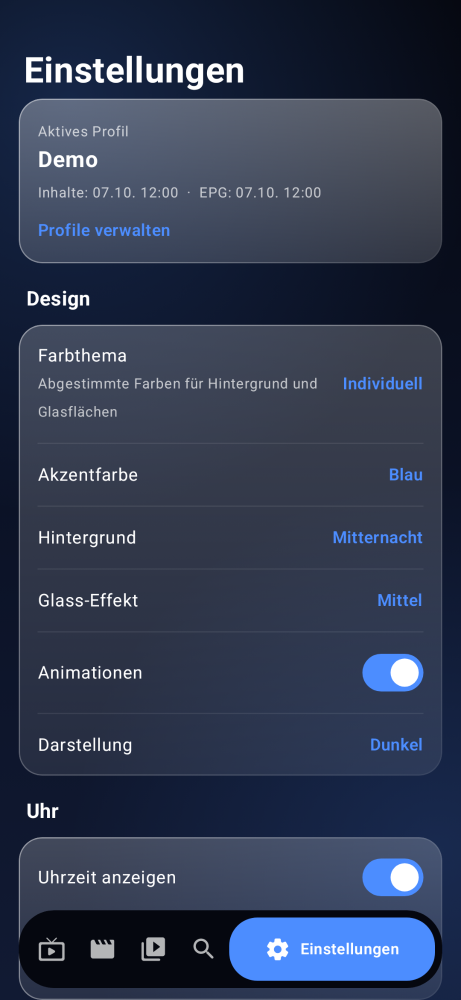
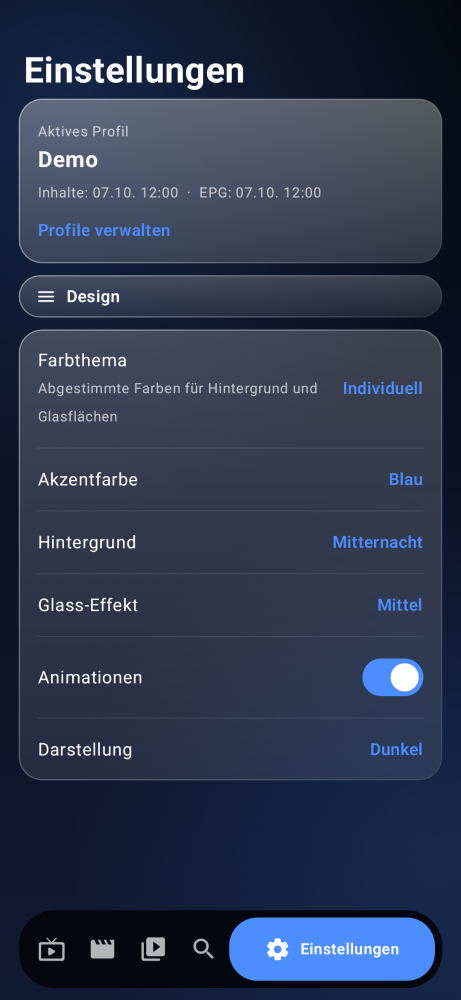
Version 1.0.37: Einstellungen auf dem Handy über eine Schublade
Design, Uhr, Player, Live-TV und Allgemein wählt man wie die Kategorien. Auf der Seite bleibt nur der gewählte Bereich.

diff --git a/mobile/src/main/java/de/dgstudios/iptvstream/SettingsScreens.kt b/mobile/src/main/java/de/dgstudios/iptvstream/SettingsScreens.kt
@@ -1,6 +1,9 @@
 package de.dgstudios.iptvstream
 
 import androidx.compose.foundation.background
+import androidx.compose.foundation.border
+import androidx.compose.foundation.clickable
+import androidx.compose.foundation.interaction.MutableInteractionSource
 import androidx.compose.foundation.layout.Arrangement
 import androidx.compose.foundation.layout.Box
 import androidx.compose.foundation.layout.Column
@@ -8,14 +11,18 @@ import androidx.compose.foundation.layout.PaddingValues
 import androidx.compose.foundation.layout.Row
 import androidx.compose.foundation.layout.Spacer
 import androidx.compose.foundation.layout.WindowInsets
+import androidx.compose.foundation.layout.WindowInsetsSides
+import androidx.compose.foundation.layout.fillMaxHeight
 import androidx.compose.foundation.layout.fillMaxSize
 import androidx.compose.foundation.layout.fillMaxWidth
 import androidx.compose.foundation.layout.height
 import androidx.compose.foundation.layout.imePadding
+import androidx.compose.foundation.layout.only
 import androidx.compose.foundation.layout.padding
 import androidx.compose.foundation.layout.safeDrawing
 import androidx.compose.foundation.layout.size
 import androidx.compose.foundation.layout.width
+import androidx.compose.foundation.layout.widthIn
 import androidx.compose.foundation.layout.windowInsetsPadding
 import androidx.compose.foundation.lazy.LazyColumn
 import androidx.compose.foundation.layout.asPaddingValues
@@ -30,6 +37,7 @@ import androidx.compose.material.icons.rounded.Add
 import androidx.compose.material.icons.rounded.Check
 import androidx.compose.material.icons.rounded.Delete
 import androidx.compose.material.icons.rounded.Edit
+import androidx.compose.material.icons.rounded.Menu
 import androidx.compose.material.icons.rounded.Tv
 import androidx.compose.material3.AlertDialog
 import androidx.compose.material3.DropdownMenu
@@ -44,9 +52,11 @@ import androidx.compose.runtime.Composable
 import androidx.compose.runtime.getValue
 import androidx.compose.runtime.mutableStateOf
 import androidx.compose.runtime.remember
+import androidx.compose.runtime.saveable.rememberSaveable
 import androidx.compose.runtime.setValue
 import androidx.compose.ui.Alignment
 import androidx.compose.ui.Modifier
+import androidx.compose.ui.draw.clip
 import androidx.compose.ui.platform.LocalContext
 import androidx.compose.ui.graphics.Color
 import androidx.compose.ui.text.font.FontWeight
@@ -55,6 +65,9 @@ import androidx.compose.ui.text.style.TextOverflow
 import androidx.compose.ui.unit.Dp
 import androidx.compose.ui.unit.dp
 import androidx.compose.ui.unit.sp
+import androidx.compose.ui.window.Dialog
+import androidx.compose.ui.window.DialogProperties
+import de.dgstudios.iptvstream.core.settings.SettingsSection
 import androidx.lifecycle.compose.collectAsStateWithLifecycle
 import de.dgstudios.iptvstream.core.data.db.ProfileEntity
 import de.dgstudios.iptvstream.core.data.db.ProfileType
@@ -83,6 +96,9 @@ fun SettingsScreen(mainVm: MainViewModel, settings: AppSettings, bottomPad: Dp, 
     val sysNav = androidx.compose.foundation.layout.WindowInsets.navigationBars
         .asPaddingValues().calculateBottomPadding()
     val listBottom = maxOf(bottomPad, 66.dp + 36.dp + sysNav) + 24.dp
+    var sectionId by rememberSaveable { mutableStateOf(SettingsSchema.sections.first().id) }
+    var drawerOpen by remember { mutableStateOf(false) }
+    val section = SettingsSchema.sections.firstOrNull { it.id == sectionId } ?: SettingsSchema.sections.first()
 
     LazyColumn(
         Modifier.fillMaxSize(),
@@ -110,41 +126,166 @@ fun SettingsScreen(mainVm: MainViewModel, settings: AppSettings, bottomPad: Dp, 
                 }
             }
         }
-        for (section in SettingsSchema.sections) {
-            item(key = "h_" + section.id) {
-                Text(
-                    section.title,
-                    color = s.onSurface,
-                    fontSize = 17.sp,
-                    fontWeight = FontWeight.Bold,
-                    modifier = Modifier.padding(start = 6.dp, top = 8.dp),
-                )
-            }
-            item(key = "s_" + section.id) {
-                Column(Modifier.fillMaxWidth().glass(RoundedCornerShape(20.dp))) {
-                    section.items.forEachIndexed { i, def ->
-                        if (i > 0) {
-                            Box(Modifier.fillMaxWidth().height(1.dp).padding(horizontal = 16.dp).background(Color.White.copy(alpha = 0.08f)))
-                        }
-                        SettingRow(
-                            def = def,
-                            settings = settings,
-                            epgRunning = epg.running,
-                            epgFraction = epg.fraction,
-                            epgMessage = epg.message,
-                            onChange = { k, v -> mainVm.set(k, v) },
-                            onAction = { id ->
-                                when (id) {
-                                    "profiles" -> onProfiles()
-                                    "reload" -> mainVm.reloadContent()
-                                    "epg_refresh" -> mainVm.refreshEpg()
-                                    "check_update" -> context.container.updates.checkNow()
-                                }
-                            },
-                        )
+        item(key = "section_bar") {
+            SettingsSectionBar(section.title) { drawerOpen = true }
+        }
+        item(key = "s_" + section.id) {
+            SettingsCard(
+                section = section,
+                settings = settings,
+                epgRunning = epg.running,
+                epgFraction = epg.fraction,
+                epgMessage = epg.message,
+                onChange = { k, v -> mainVm.set(k, v) },
+                onAction = { id ->
+                    when (id) {
+                        "profiles" -> onProfiles()
+                        "reload" -> mainVm.reloadContent()
+                        "epg_refresh" -> mainVm.refreshEpg()
+                        "check_update" -> context.container.updates.checkNow()
+                    }
+                },
+            )
+        }
+    }
+    if (drawerOpen) {
+        SettingsSectionDrawer(
+            selected = section.id,
+            onSelect = {
+                sectionId = it
+                drawerOpen = false
+            },
+            onDismiss = { drawerOpen = false },
+        )
+    }
+}
+
+/** Knopf wie bei den Kategorien: tippen öffnet die Schublade mit den Bereichen. */
+@Composable
+internal fun SettingsSectionBar(title: String, onOpen: () -> Unit) {
+    val s = LocalAppStyle.current
+    Row(
+        Modifier
+            .fillMaxWidth()
+            .height(36.dp)
+            .glass(RoundedCornerShape(50))
+            .pressable(onOpen)
+            .padding(horizontal = 14.dp),
+        verticalAlignment = Alignment.CenterVertically,
+    ) {
+        Icon(Icons.Rounded.Menu, contentDescription = "Bereiche öffnen", tint = s.onSurface, modifier = Modifier.size(18.dp))
+        Spacer(Modifier.width(8.dp))
+        Text(
+            title,
+            color = s.onSurface,
+            fontSize = 14.sp,
+            fontWeight = FontWeight.SemiBold,
+            maxLines = 1,
+            overflow = TextOverflow.Ellipsis,
+        )
+    }
+}
+
+/** Seitliche Schublade mit Design, Uhr, Player, Live-TV und Allgemein. */
+@Composable
+private fun SettingsSectionDrawer(
+    selected: String,
+    onSelect: (String) -> Unit,
+    onDismiss: () -> Unit,
+) {
+    val s = LocalAppStyle.current
+    val sections = SettingsSchema.sections
+    Dialog(
+        onDismissRequest = onDismiss,
+        properties = DialogProperties(usePlatformDefaultWidth = false, dismissOnClickOutside = true),
+    ) {
+        Box(Modifier.fillMaxSize()) {
+            Box(
+                Modifier
+                    .fillMaxSize()
+                    .background(Color.Black.copy(alpha = 0.45f))
+                    .clickable(
+                        interactionSource = remember { MutableInteractionSource() },
+                        indication = null,
+                        onClick = onDismiss,
+                    ),
+            )
+            Column(
+                Modifier
+                    .fillMaxHeight()
+                    .fillMaxWidth(0.88f)
+                    .widthIn(max = 420.dp)
+                    .background(s.backgroundColors[0])
+                    .windowInsetsPadding(
+                        WindowInsets.safeDrawing.only(WindowInsetsSides.Horizontal + WindowInsetsSides.Top),
+                    )
+                    .padding(horizontal = 14.dp, vertical = 12.dp),
+            ) {
+                Text("Bereiche", color = s.onSurface, fontSize = 22.sp, fontWeight = FontWeight.Bold)
+                Spacer(Modifier.height(12.dp))
+                LazyColumn(
+                    Modifier.weight(1f).fillMaxWidth(),
+                    verticalArrangement = Arrangement.spacedBy(8.dp),
+                    contentPadding = PaddingValues(bottom = 48.dp),
+                ) {
+                    items(sections, key = { it.id }) { sec ->
+                        SettingsDrawerRow(sec.title, sec.id == selected) { onSelect(sec.id) }
                     }
                 }
             }
+        }
+    }
+}
+
+@Composable
+private fun SettingsDrawerRow(name: String, selected: Boolean, onClick: () -> Unit) {
+    val s = LocalAppStyle.current
+    val shape = RoundedCornerShape(18.dp)
+    val fill = if (selected) settingsSolidMix(s.backgroundColors[2], s.accent, 0.5f) else s.backgroundColors[2]
+    Box(
+        Modifier
+            .fillMaxWidth()
+            .clip(shape)
+            .background(fill, shape)
+            .then(if (selected) Modifier.border(1.5.dp, s.accent, shape) else Modifier)
+            .pressable(onClick)
+            .padding(horizontal = 14.dp, vertical = 13.dp),
+        contentAlignment = Alignment.CenterStart,
+    ) {
+        Text(
+            name,
+            color = s.onSurface,
+            fontSize = 15.sp,
+            fontWeight = FontWeight.SemiBold,
+            maxLines = 1,
+            overflow = TextOverflow.Ellipsis,
+        )
+    }
+}
+
+private fun settingsSolidMix(base: Color, accent: Color, amount: Float): Color = Color(
+    red = base.red * (1f - amount) + accent.red * amount,
+    green = base.green * (1f - amount) + accent.green * amount,
+    blue = base.blue * (1f - amount) + accent.blue * amount,
+    alpha = 1f,
+)
+
+@Composable
+internal fun SettingsCard(
+    section: SettingsSection,
+    settings: AppSettings,
+    epgRunning: Boolean,
+    epgFraction: Float,
+    epgMessage: String,
+    onChange: (String, String) -> Unit,
+    onAction: (String) -> Unit,
+) {
+    Column(Modifier.fillMaxWidth().glass(RoundedCornerShape(20.dp))) {
+        section.items.forEachIndexed { i, def ->
+            if (i > 0) {
+                Box(Modifier.fillMaxWidth().height(1.dp).padding(horizontal = 16.dp).background(Color.White.copy(alpha = 0.08f)))
+            }
+            SettingRow(def, settings, epgRunning, epgFraction, epgMessage, onChange, onAction)
         }
     }
 }

diff --git a/mobile/src/test/java/de/dgstudios/iptvstream/ReadmeScreenshots.kt b/mobile/src/test/java/de/dgstudios/iptvstream/ReadmeScreenshots.kt
@@ -235,15 +235,9 @@ class ReadmeScreenshots {
                     Spacer(Modifier.height(8.dp))
                     Text("Profile verwalten", color = s.accent, fontSize = 14.sp, fontWeight = FontWeight.SemiBold)
                 }
-                for (section in SettingsSchema.sections.take(2)) {
-                    Text(section.title, color = s.onSurface, fontSize = 17.sp, fontWeight = FontWeight.Bold, modifier = Modifier.padding(start = 6.dp, top = 8.dp))
-                    Column(Modifier.fillMaxWidth().glass(RoundedCornerShape(20.dp))) {
-                        section.items.forEachIndexed { i, def ->
-                            if (i > 0) Box(Modifier.fillMaxWidth().height(1.dp).padding(horizontal = 16.dp).background(Color.White.copy(alpha = 0.08f)))
-                            SettingRow(def, settings, false, 0f, "", { _, _ -> }, {})
-                        }
-                    }
-                }
+                val section = SettingsSchema.sections.first()
+                SettingsSectionBar(section.title) {}
+                SettingsCard(section, settings, false, 0f, "", { _, _ -> }, {})
             }
         }
     }

diff --git a/README.md b/README.md
@@ -21,7 +21,7 @@ Handy-Oberfläche im Glas-Look (Hintergrund „Mitternacht“, Akzent Blau) mit 
 | Smartphone / Tablet | [iptvstream-mobile.apk](https://github.com/daniel96865-a11y/iptvstream/releases/latest/download/iptvstream-mobile.apk) |
 | Android TV / Fire TV | [iptvstream-tv.apk](https://github.com/daniel96865-a11y/iptvstream/releases/latest/download/iptvstream-tv.apk) |
 
-Aktuelle Version: [Release v1.0.36](https://github.com/daniel96865-a11y/iptvstream/releases/tag/v1.0.36)
+Aktuelle Version: [Release v1.0.37](https://github.com/daniel96865-a11y/iptvstream/releases/tag/v1.0.37)
 
 Installation außerhalb des Play Store: in den Android-Einstellungen „Unbekannte Apps“ für den Browser bzw. Dateimanager erlauben, die APK öffnen und installieren. Auf Fire TV die APK per „Downloader“ oder `adb install` aufspielen.
 
@@ -47,7 +47,7 @@ Zwei Oberflächen in einem Projekt:
 - Handy-Player: startet in der aktuellen Ausrichtung. Querformat nur, wenn das Gerät gedreht wird und die Autorotation an ist. Ist die Autorotation aus, bleibt Hochformat, ein Knopf schaltet auf Vollbild.
 - **Chromecast** (Handy): im Player auf das Cast-Symbol tippen und den Fernseher wählen. Live läuft dort am Live-Rand, Filme und Serien starten an der aktuellen Stelle, der nächste Sender oder Film läuft automatisch mit. An und aus in den Einstellungen, Player: „Chromecast“.
 - Updates in der App: beim Start, höchstens alle vier Stunden, und in den Einstellungen über „Nach Updates suchen“. Neuere Versionen zeigen den Changelog; die APK wird geladen und mit dem System-Installer installiert.
-- Einstellungen: Design (Akzent, Hintergrund, Glass-Stärke, Animationen, Dunkel/Hell), Uhr, Player, Live-TV, Allgemein inklusive Version. Alles bleibt gespeichert. Sind Animationen an, gleiten Fortschritt, Fokus, Filmdetails und der Spul-Hinweis. Aus heißt: alles steht sofort.
+- Einstellungen: Design (Akzent, Hintergrund, Glass-Stärke, Animationen, Dunkel/Hell), Uhr, Player, Live-TV, Allgemein inklusive Version. Auf dem Handy wählt man den Bereich über die Schublade, wie die Kategorien. Alles bleibt gespeichert. Sind Animationen an, gleiten Fortschritt, Fokus, Filmdetails und der Spul-Hinweis. Aus heißt: alles steht sofort.
 
 ## Updates
 
